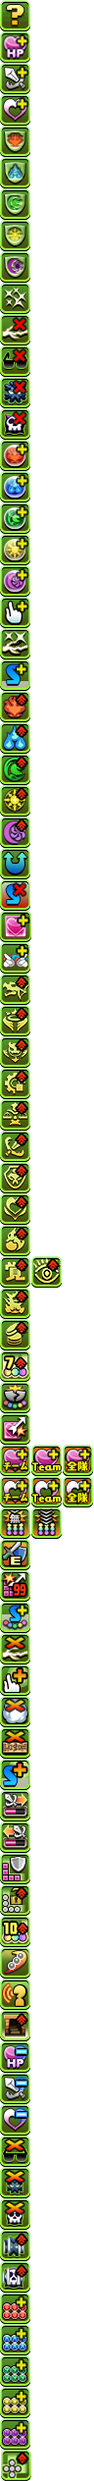
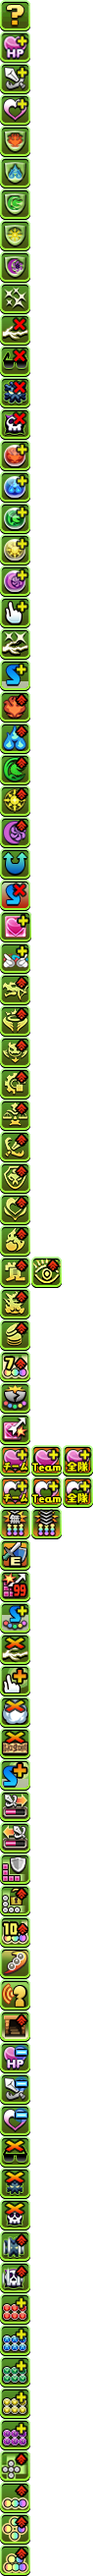
19.4新觉醒

diff --git a/triple.html b/triple.html
@@ -526,6 +526,9 @@ var formation = new Formation(teamsCount,6);
 						<li class="awoken-count display-none"><span class="awoken-icon" data-awoken-icon="76"></span><span class="count"></span></li><!--2串光-->
 						<li class="awoken-count display-none"><span class="awoken-icon" data-awoken-icon="77"></span><span class="count"></span></li><!--2串暗-->
 						<li class="awoken-count display-none"><span class="awoken-icon" data-awoken-icon="78"></span><span class="count"></span></li><!--十字-->
+						<li class="awoken-count display-none"><span class="awoken-icon" data-awoken-icon="79"></span><span class="count"></span></li><!--3色-->
+						<li class="awoken-count display-none"><span class="awoken-icon" data-awoken-icon="80"></span><span class="count"></span></li><!--4色-->
+						<li class="awoken-count display-none"><span class="awoken-icon" data-awoken-icon="81"></span><span class="count"></span></li><!--5色-->
 					</ul>
 				</div>
 			</li>
@@ -982,6 +985,9 @@ var formation = new Formation(teamsCount,6);
 						<li class="awoken-count display-none"><span class="awoken-icon" data-awoken-icon="76"></span><span class="count"></span></li><!--2串光-->
 						<li class="awoken-count display-none"><span class="awoken-icon" data-awoken-icon="77"></span><span class="count"></span></li><!--2串暗-->
 						<li class="awoken-count display-none"><span class="awoken-icon" data-awoken-icon="78"></span><span class="count"></span></li><!--十字-->
+						<li class="awoken-count display-none"><span class="awoken-icon" data-awoken-icon="79"></span><span class="count"></span></li><!--3色-->
+						<li class="awoken-count display-none"><span class="awoken-icon" data-awoken-icon="80"></span><span class="count"></span></li><!--4色-->
+						<li class="awoken-count display-none"><span class="awoken-icon" data-awoken-icon="81"></span><span class="count"></span></li><!--5色-->
 					</ul>
 				</div>
 			</li>
@@ -1438,6 +1444,9 @@ var formation = new Formation(teamsCount,6);
 						<li class="awoken-count display-none"><span class="awoken-icon" data-awoken-icon="76"></span><span class="count"></span></li><!--2串光-->
 						<li class="awoken-count display-none"><span class="awoken-icon" data-awoken-icon="77"></span><span class="count"></span></li><!--2串暗-->
 						<li class="awoken-count display-none"><span class="awoken-icon" data-awoken-icon="78"></span><span class="count"></span></li><!--十字-->
+						<li class="awoken-count display-none"><span class="awoken-icon" data-awoken-icon="79"></span><span class="count"></span></li><!--3色-->
+						<li class="awoken-count display-none"><span class="awoken-icon" data-awoken-icon="80"></span><span class="count"></span></li><!--4色-->
+						<li class="awoken-count display-none"><span class="awoken-icon" data-awoken-icon="81"></span><span class="count"></span></li><!--5色-->
 					</ul>
 				</div>
 			</li>
@@ -1604,6 +1613,9 @@ var formation = new Formation(teamsCount,6);
 					<li class="awoken-count"><button class="awoken-icon" data-awoken-icon="76"></button><!--2串光--></li>
 					<li class="awoken-count"><button class="awoken-icon" data-awoken-icon="77"></button><!--2串暗--></li>
 					<li class="awoken-count"><button class="awoken-icon" data-awoken-icon="78"></button><!--十字--></li>
+					<li class="awoken-count"><button class="awoken-icon" data-awoken-icon="79"></button><!--3色--></li>
+					<li class="awoken-count"><button class="awoken-icon" data-awoken-icon="80"></button><!--4色--></li>
+					<li class="awoken-count"><button class="awoken-icon" data-awoken-icon="81"></button><!--5色--></li>
 				</ul>
 			</div>
 			<div class="sawoken-div"><!--超觉醒-->
@@ -1687,6 +1699,9 @@ var formation = new Formation(teamsCount,6);
 					<li class="awoken-count"><input type="checkbox" class="sawoken-check" name="types" value="76" id="search-awoken-76" /><label class="awoken-icon" data-awoken-icon="76" for="search-awoken-76"></label><!--2串光--></li>
 					<li class="awoken-count"><input type="checkbox" class="sawoken-check" name="types" value="77" id="search-awoken-77" /><label class="awoken-icon" data-awoken-icon="77" for="search-awoken-77"></label><!--2串暗--></li>
 					<li class="awoken-count"><input type="checkbox" class="sawoken-check" name="types" value="78" id="search-awoken-78" /><label class="awoken-icon" data-awoken-icon="78" for="search-awoken-78"></label><!--十字--></li>
+					<li class="awoken-count"><input type="checkbox" class="sawoken-check" name="types" value="79" id="search-awoken-79" /><label class="awoken-icon" data-awoken-icon="79" for="search-awoken-79"></label><!--3色--></li>
+					<li class="awoken-count"><input type="checkbox" class="sawoken-check" name="types" value="80" id="search-awoken-80" /><label class="awoken-icon" data-awoken-icon="80" for="search-awoken-80"></label><!--4色--></li>
+					<li class="awoken-count"><input type="checkbox" class="sawoken-check" name="types" value="81" id="search-awoken-81" /><label class="awoken-icon" data-awoken-icon="81" for="search-awoken-81"></label><!--5色--></li>
 				</ul>
 			</div>
 			<div class="control-div"><!--控制栏-->

diff --git a/solo.html b/solo.html
@@ -511,6 +511,9 @@ var formation = new Formation(teamsCount,6);
 						<li class="awoken-count display-none"><span class="awoken-icon" data-awoken-icon="76"></span><span class="count"></span></li><!--2串光-->
 						<li class="awoken-count display-none"><span class="awoken-icon" data-awoken-icon="77"></span><span class="count"></span></li><!--2串暗-->
 						<li class="awoken-count display-none"><span class="awoken-icon" data-awoken-icon="78"></span><span class="count"></span></li><!--十字-->
+						<li class="awoken-count display-none"><span class="awoken-icon" data-awoken-icon="79"></span><span class="count"></span></li><!--3色-->
+						<li class="awoken-count display-none"><span class="awoken-icon" data-awoken-icon="80"></span><span class="count"></span></li><!--4色-->
+						<li class="awoken-count display-none"><span class="awoken-icon" data-awoken-icon="81"></span><span class="count"></span></li><!--5色-->
 					</ul>
 				</div>
 			</li>
@@ -677,6 +680,9 @@ var formation = new Formation(teamsCount,6);
 					<li class="awoken-count"><button class="awoken-icon" data-awoken-icon="76"></button><!--2串光--></li>
 					<li class="awoken-count"><button class="awoken-icon" data-awoken-icon="77"></button><!--2串暗--></li>
 					<li class="awoken-count"><button class="awoken-icon" data-awoken-icon="78"></button><!--十字--></li>
+					<li class="awoken-count"><button class="awoken-icon" data-awoken-icon="79"></button><!--3色--></li>
+					<li class="awoken-count"><button class="awoken-icon" data-awoken-icon="80"></button><!--4色--></li>
+					<li class="awoken-count"><button class="awoken-icon" data-awoken-icon="81"></button><!--5色--></li>
 				</ul>
 			</div>
 			<div class="sawoken-div"><!--超觉醒-->
@@ -760,6 +766,9 @@ var formation = new Formation(teamsCount,6);
 					<li class="awoken-count"><input type="checkbox" class="sawoken-check" name="types" value="76" id="search-awoken-76" /><label class="awoken-icon" data-awoken-icon="76" for="search-awoken-76"></label><!--2串光--></li>
 					<li class="awoken-count"><input type="checkbox" class="sawoken-check" name="types" value="77" id="search-awoken-77" /><label class="awoken-icon" data-awoken-icon="77" for="search-awoken-77"></label><!--2串暗--></li>
 					<li class="awoken-count"><input type="checkbox" class="sawoken-check" name="types" value="78" id="search-awoken-78" /><label class="awoken-icon" data-awoken-icon="78" for="search-awoken-78"></label><!--十字--></li>
+					<li class="awoken-count"><input type="checkbox" class="sawoken-check" name="types" value="79" id="search-awoken-79" /><label class="awoken-icon" data-awoken-icon="79" for="search-awoken-79"></label><!--3色--></li>
+					<li class="awoken-count"><input type="checkbox" class="sawoken-check" name="types" value="80" id="search-awoken-80" /><label class="awoken-icon" data-awoken-icon="80" for="search-awoken-80"></label><!--4色--></li>
+					<li class="awoken-count"><input type="checkbox" class="sawoken-check" name="types" value="81" id="search-awoken-81" /><label class="awoken-icon" data-awoken-icon="81" for="search-awoken-81"></label><!--5色--></li>
 				</ul>
 			</div>
 			<div class="control-div"><!--控制栏-->

diff --git a/multi.html b/multi.html
@@ -826,6 +826,9 @@ var formation = new Formation(teamsCount,5);
 					<li class="awoken-count"><button class="awoken-icon" data-awoken-icon="76"></button><!--2串光--></li>
 					<li class="awoken-count"><button class="awoken-icon" data-awoken-icon="77"></button><!--2串暗--></li>
 					<li class="awoken-count"><button class="awoken-icon" data-awoken-icon="78"></button><!--十字--></li>
+					<li class="awoken-count"><button class="awoken-icon" data-awoken-icon="79"></button><!--3色--></li>
+					<li class="awoken-count"><button class="awoken-icon" data-awoken-icon="80"></button><!--4色--></li>
+					<li class="awoken-count"><button class="awoken-icon" data-awoken-icon="81"></button><!--5色--></li>
 				</ul>
 			</div>
 			<div class="sawoken-div"><!--超觉醒-->
@@ -909,6 +912,9 @@ var formation = new Formation(teamsCount,5);
 					<li class="awoken-count"><input type="checkbox" class="sawoken-check" name="types" value="76" id="search-awoken-76" /><label class="awoken-icon" data-awoken-icon="76" for="search-awoken-76"></label><!--2串光--></li>
 					<li class="awoken-count"><input type="checkbox" class="sawoken-check" name="types" value="77" id="search-awoken-77" /><label class="awoken-icon" data-awoken-icon="77" for="search-awoken-77"></label><!--2串暗--></li>
 					<li class="awoken-count"><input type="checkbox" class="sawoken-check" name="types" value="78" id="search-awoken-78" /><label class="awoken-icon" data-awoken-icon="78" for="search-awoken-78"></label><!--十字--></li>
+					<li class="awoken-count"><input type="checkbox" class="sawoken-check" name="types" value="79" id="search-awoken-79" /><label class="awoken-icon" data-awoken-icon="79" for="search-awoken-79"></label><!--3色--></li>
+					<li class="awoken-count"><input type="checkbox" class="sawoken-check" name="types" value="80" id="search-awoken-80" /><label class="awoken-icon" data-awoken-icon="80" for="search-awoken-80"></label><!--4色--></li>
+					<li class="awoken-count"><input type="checkbox" class="sawoken-check" name="types" value="81" id="search-awoken-81" /><label class="awoken-icon" data-awoken-icon="81" for="search-awoken-81"></label><!--5色--></li>
 				</ul>
 			</div>
 			<div class="control-div"><!--控制栏-->

diff --git a/style-monsterimages.css b/style-monsterimages.css
@@ -614,6 +614,15 @@
 .awoken-icon[data-awoken-icon='78']{/*十字*/
 	background-position-y:calc(-32px * 78);
 }
+.awoken-icon[data-awoken-icon='79']{/*3色*/
+	background-position-y:calc(-32px * 79);
+}
+.awoken-icon[data-awoken-icon='80']{/*4色*/
+	background-position-y:calc(-32px * 80);
+}
+.awoken-icon[data-awoken-icon='81']{/*5色*/
+	background-position-y:calc(-32px * 81);
+}
 /*类型*/
 .type-icon{
 	background-image: url(images/type.png);

diff --git a/script-json_data.js b/script-json_data.js
@@ -68,7 +68,8 @@ const official_awoken_sorting = [
            4,  5,  6,  7,  8, 35, 36, 37, 38,
            1,  2,  3, 46, 47, 39, 40, 41, 42,
           65, 66, 67,  9, 71, 72, 30, 64, 63,
-          73, 74, 75, 76, 77, 78];
+          73, 74, 75, 76, 77, 78, 79, 80, 81
+];
 
 //pdc的徽章对应数字
 const pdcBadgeMap = [
